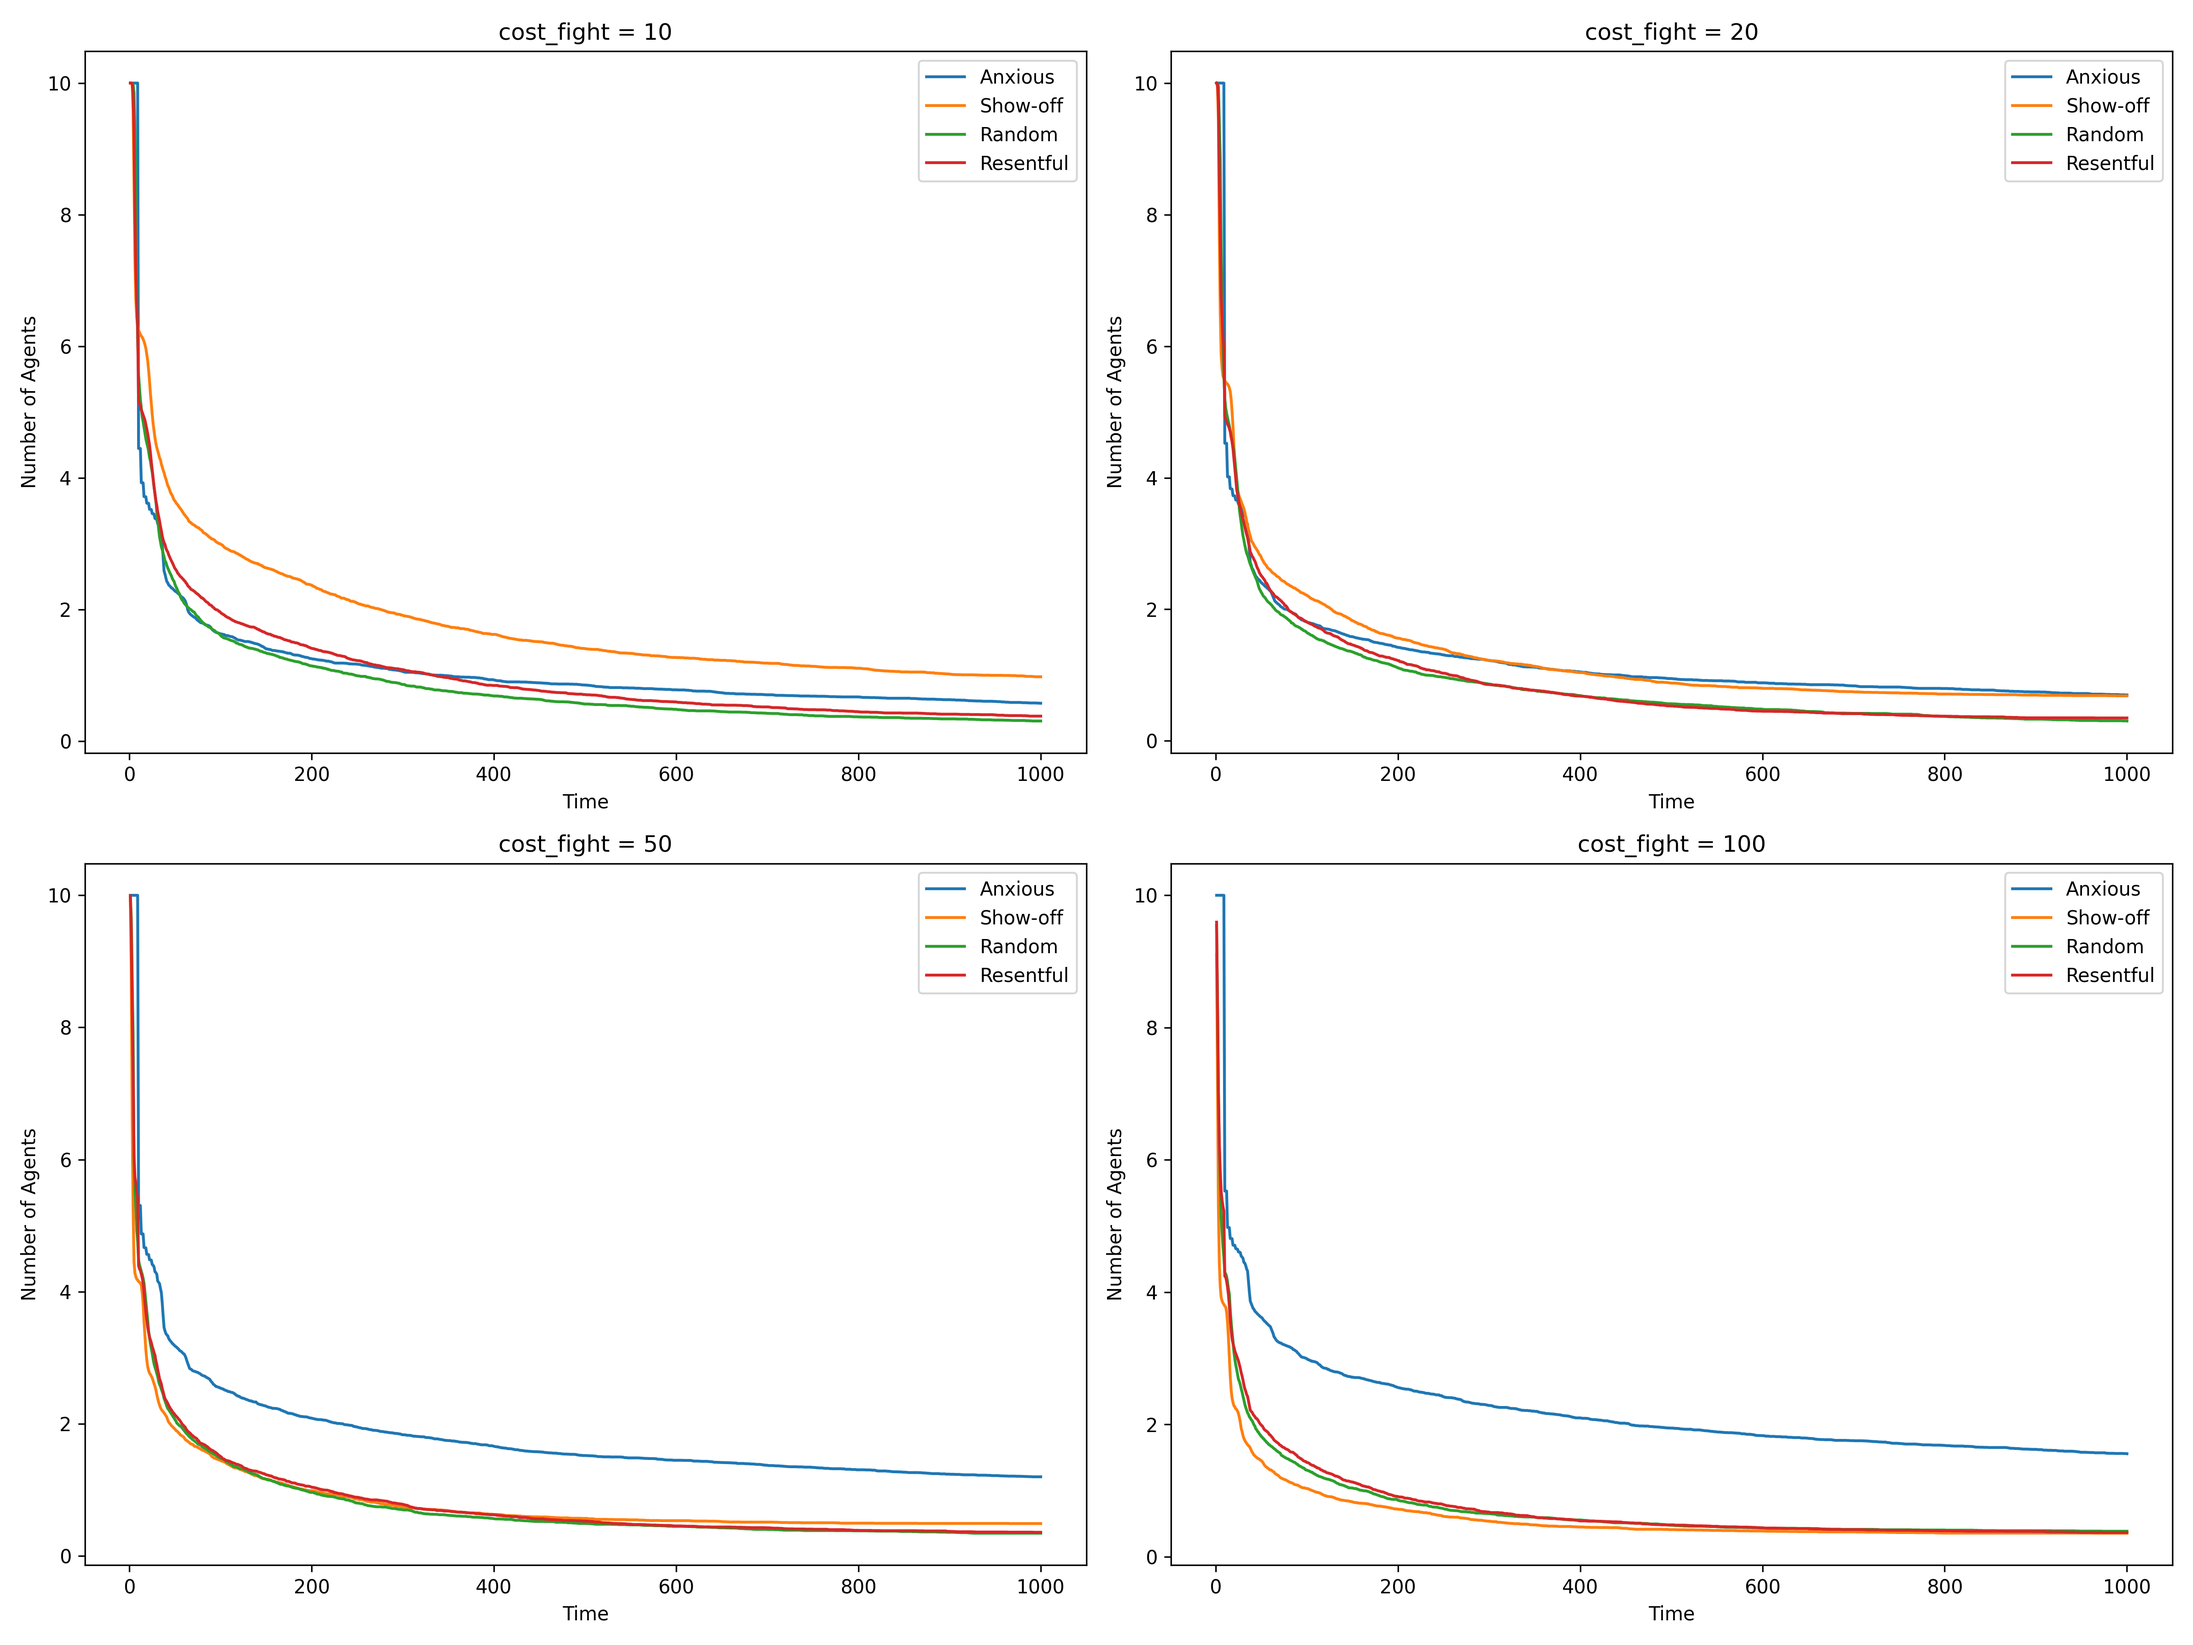
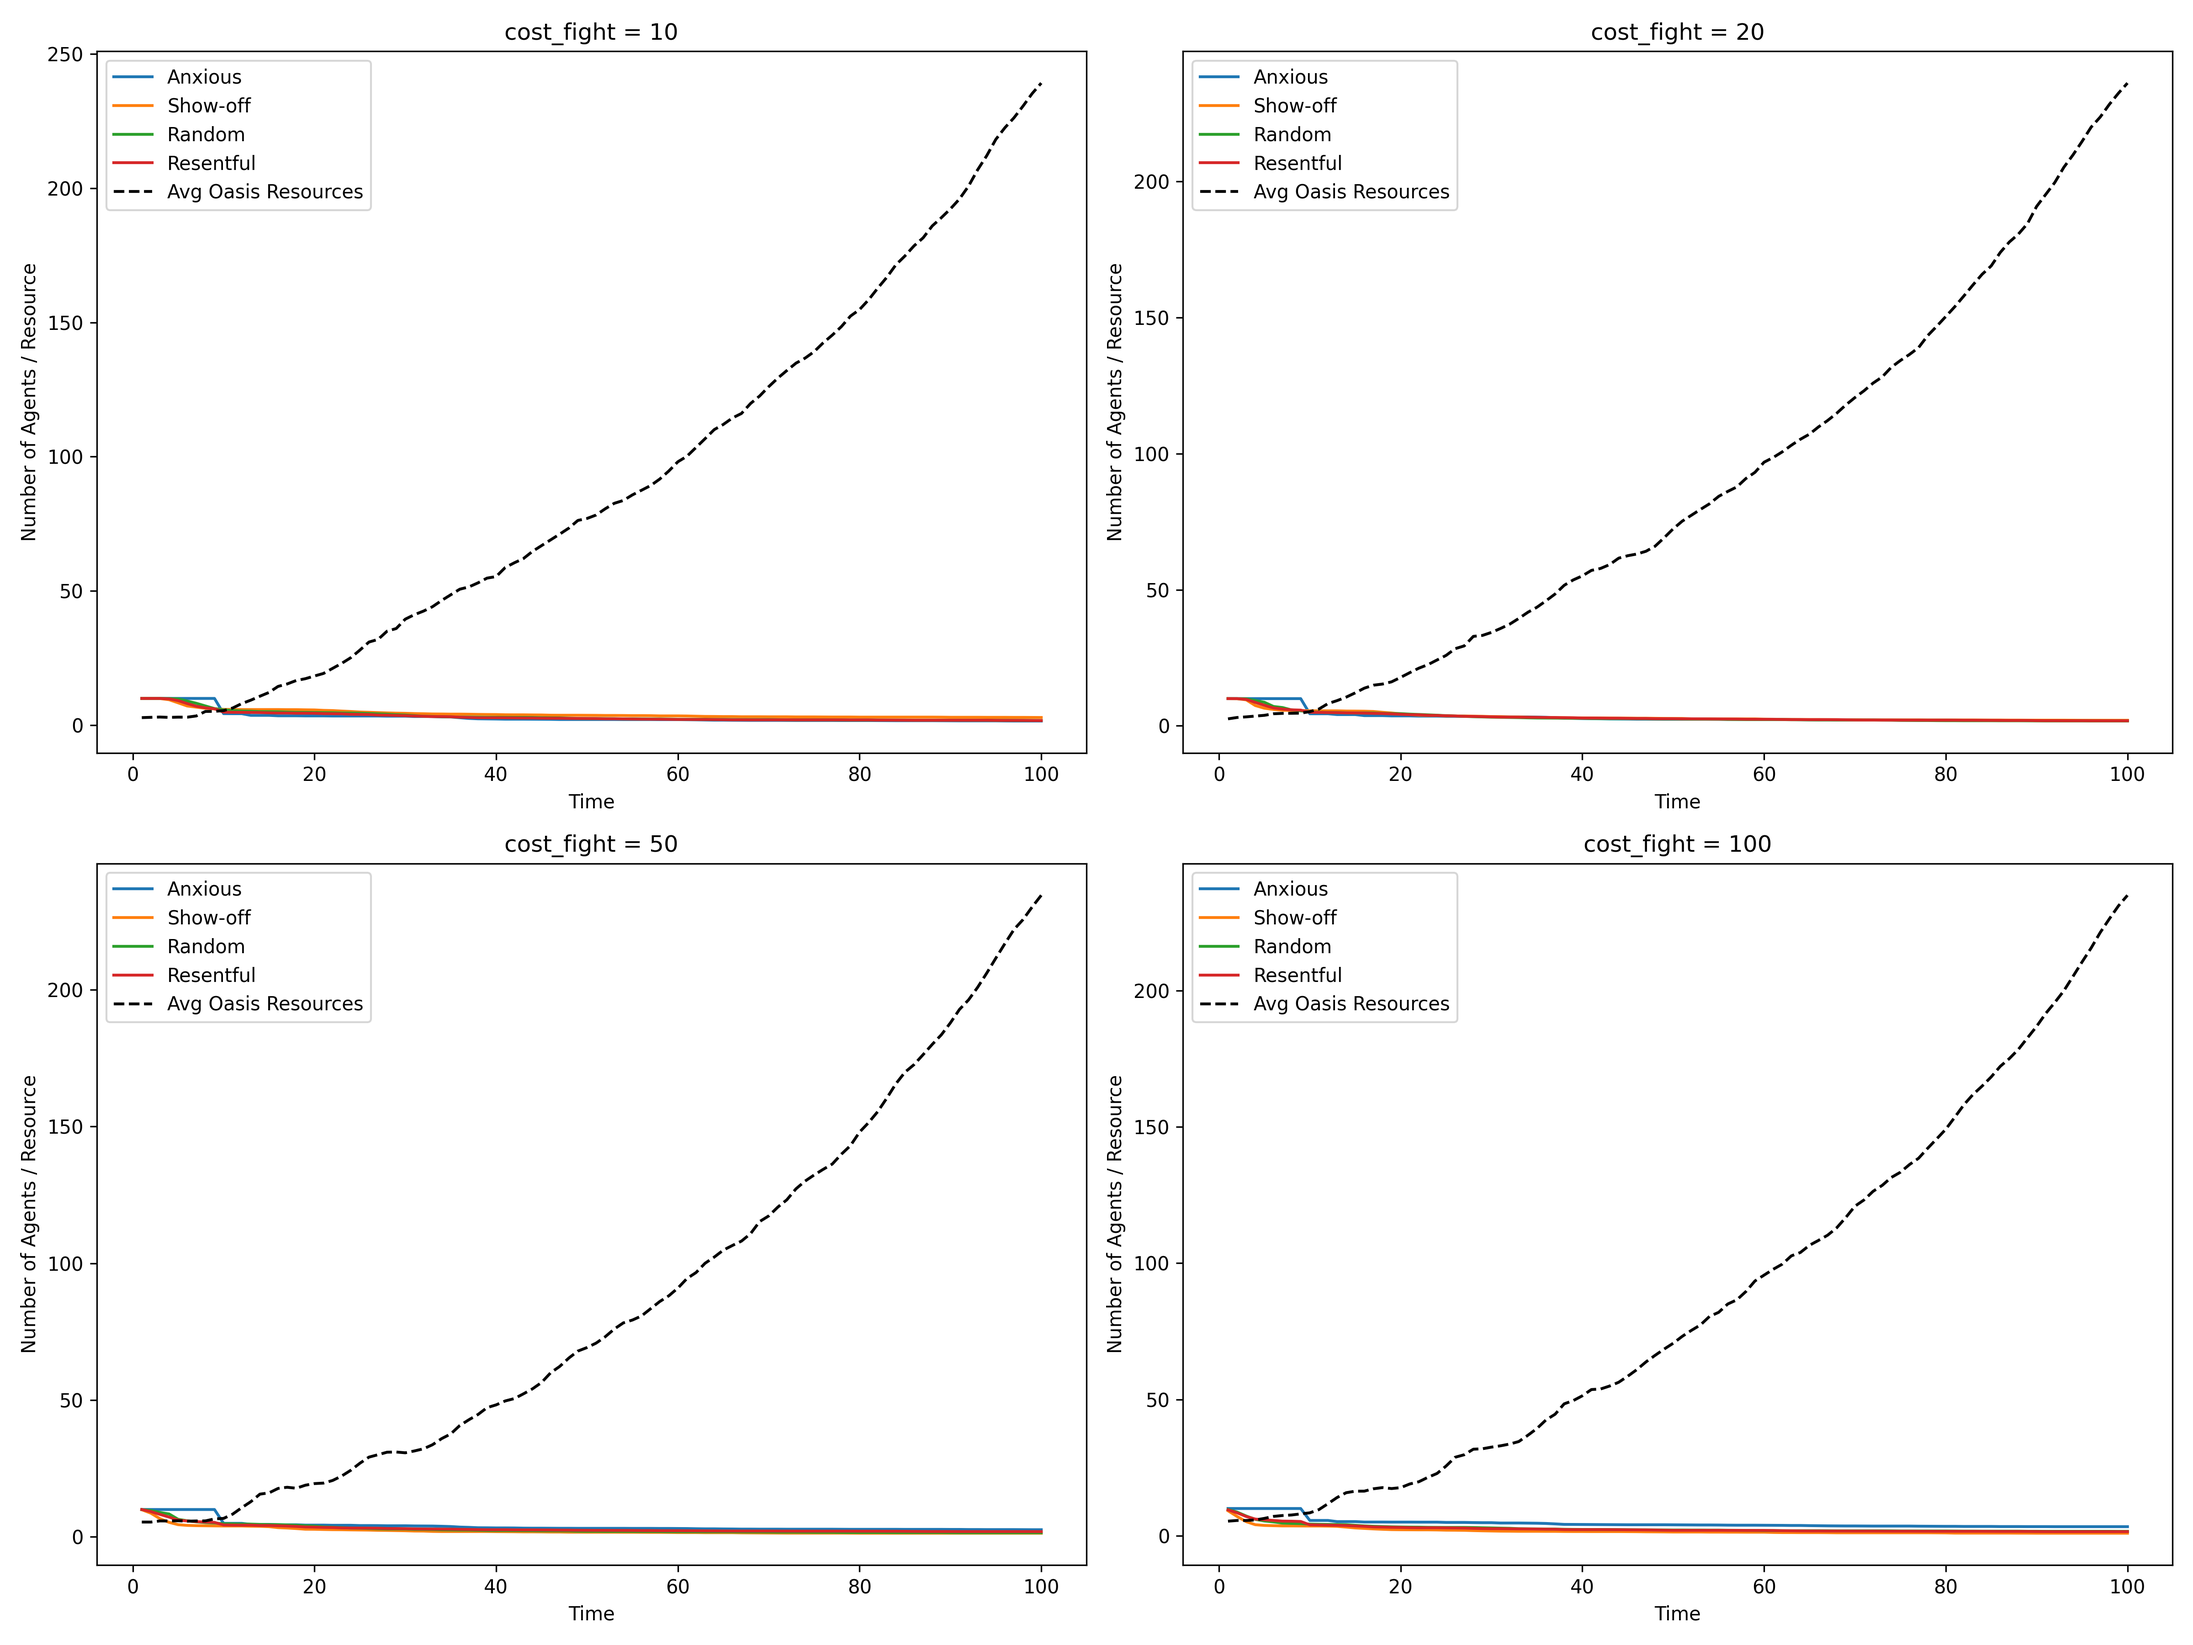
test.py

diff --git a/Type_experiment/test.py b/Type_experiment/test.py
@@ -1,0 +1,50 @@
+from Type_model import Type_Model as Model
+import matplotlib.pyplot as plt
+import numpy as np
+
+n_sim = 50
+sim_length = 100
+t = np.linspace(1, sim_length, sim_length)
+cost_fight_values = [10, 20, 50, 100]
+n_types = 4
+n_types_names = ['Anxious', 'Show-off', 'Random', 'Resentful']
+
+fig, axs = plt.subplots(2, 2, figsize=(16, 12))
+axs = axs.flatten()
+
+for idx, cost_fight in enumerate(cost_fight_values):
+    data_track = []
+    data_track_oases = []
+
+    for i in range(n_sim):
+        model = Model(10 * n_types, 20, n_types, 20, cost_fight=cost_fight)
+        for j in range(sim_length):
+            model.run()
+        data_track.append(model.data_track[0])       # Crew data
+        data_track_oases.append(model.data_track[1]) # Oasis data
+
+    # Plot crew types over time
+    for i in range(n_types):
+        n_types_i = np.array([
+            [len([crew for crew in step if crew.strat == i]) for step in sim]
+            for sim in data_track
+        ])
+        mean_type_counts = np.mean(n_types_i, axis=0)
+        axs[idx].plot(t, mean_type_counts, label=f"{n_types_names[i]}")
+
+    # Compute and plot average oasis.resource over time
+    oases_avg_resource_per_sim = np.array([
+        [np.mean([oasis.resource for oasis in step]) if step else 0 for step in sim]
+        for sim in data_track_oases
+    ])
+    n_oases_over_time = np.mean(oases_avg_resource_per_sim, axis=0)
+    axs[idx].plot(t, n_oases_over_time, label='Avg Oasis Resources', linestyle='--', color='black')
+
+    axs[idx].set_title(f'cost_fight = {cost_fight}')
+    axs[idx].set_xlabel('Time')
+    axs[idx].set_ylabel('Number of Agents / Resource')
+    axs[idx].legend()
+
+plt.tight_layout()
+plt.savefig("Type_experiment/type_crews_over_time_cost_fight_variants.png", dpi=300)
+plt.show()

diff --git a/Type_experiment/Type_plot.py b/Type_experiment/Type_plot.py
@@ -2,19 +2,19 @@ from Type_model import Type_Model as Model
 import matplotlib.pyplot as plt
 import numpy as np
 
-n_sim = 500
-sim_length = 1000
+n_sim = 50
+sim_length = 100
 t = np.linspace(1, sim_length, sim_length)
 cost_fight_values = [10, 20, 50, 100]
 n_types = 4
 n_types_names = ['Anxious', 'Show-off', 'Random', 'Resentful']
-cost_fight_values = [10, 20, 50, 100]
 
 fig, axs = plt.subplots(2, 2, figsize=(16, 12))
 axs = axs.flatten()
 
 for idx, cost_fight in enumerate(cost_fight_values):
     data_track = []
+    data_track_oases = []
 
     for i in range(n_sim):
         model = Model(10* n_types, 20, n_types, 20, cost_fight=cost_fight)
@@ -28,6 +28,8 @@ for idx, cost_fight in enumerate(cost_fight_values):
         n_types_over_time.append(np.mean(n_types_i, axis=0))
         axs[idx].plot(t, n_types_over_time[i], label=f"{n_types_names[i]}")
 
+    n_oases_over_time = np.mean(data_track_oases, axis=0)
+    axs[idx].plot(t, n_oases_over_time, label='Oases', linestyle='--', color='black')
     axs[idx].set_title(f'cost_fight = {cost_fight}')
     axs[idx].set_xlabel('Time')
     axs[idx].set_ylabel('Number of Agents')

diff --git a/Type_experiment/Type_model.py b/Type_experiment/Type_model.py
@@ -56,6 +56,8 @@ class Type_Model:
         self.crews[id] = new_crew
         return new_crew
     
+
+
     def remove_chimp_crews(self):
         to_remove = [key for key, crew in self.crews.items() if crew.energy <= 0]
         for key in to_remove:
